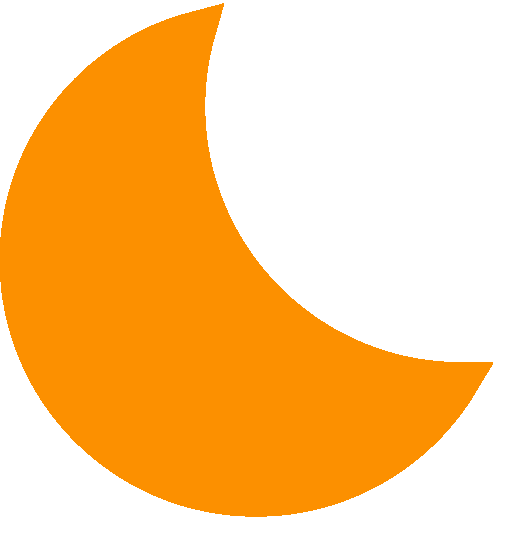
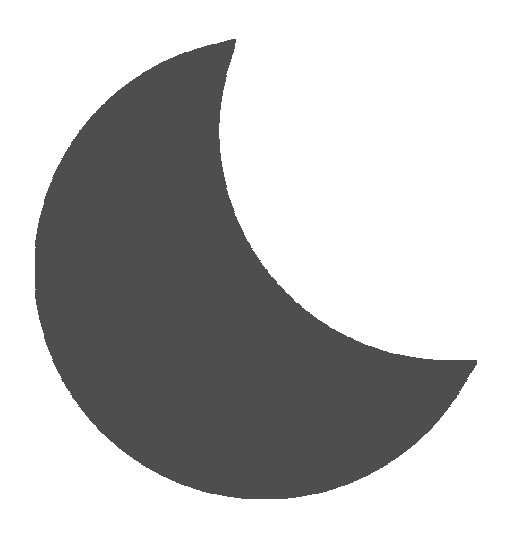
new colors

diff --git a/app/components/Search.jsx b/app/components/Search.jsx
@@ -64,7 +64,7 @@ const Search = ({ setCurrentRadio }) => {
             <div className="flex w-full justify-center items-center flex-wrap gap-4 md:gap-8">
                 <input
                     placeholder={t('search_for')}
-                    className="p-4 rounded-full md:w-2/3 bg-secondary dark:bg-dark-selected placeholder:dark:text-dark-secondary placeholder:text-dark-secondary"
+                    className="p-4 rounded-full md:w-2/3 bg-light dark:bg-dark-selected placeholder:dark:text-dark-secondary placeholder:text-dark-secondary"
                     type="text"
                     onKeyDown={(e) => e.key === 'Enter' && searchRadios()}
                     onChange={(e) => setRadioName(e.target.value)}
@@ -84,7 +84,7 @@ const Search = ({ setCurrentRadio }) => {
                     value={country}
                     defaultValue={'all'}
                     onChange={(e) => setCountry(e.target.value.toUpperCase())}
-                    className="rounded-2xl p-2 bg-secondary dark:bg-dark-selected cursor-pointer"
+                    className="rounded-2xl p-2 bg-light dark:bg-dark-selected cursor-pointer"
                 >
                     <option defaultValue={true} value="all">
                         {t('all')}
@@ -129,9 +129,9 @@ const Search = ({ setCurrentRadio }) => {
                 <motion.button
                     whileInView={{ opacity: 1 , transition: { delay: 0.1, duration: 0.5 }}}
                     initial={{ opacity: 0 }}
-                    whileHover={{ boxShadow: '0 5px 20px #4E4E4E80' }}
+                    whileHover={{ boxShadow: '0 0px 40px 5px #FFC132' }}
                     whileTap={{ scale: 0.95 }}
-                    className="rounded-full bg-black font-semibold text-white h-24 w-24 mx-auto italic"
+                    className="rounded-full bg-dark-secondary dark:bg-dark-selected font-bold text-white dark:text-darker h-24 w-24 mx-auto italic"
                     onClick={() => searchRadios(true)}
                 >
                     {'+ ' + t('more')}

diff --git a/app/components/Top.jsx b/app/components/Top.jsx
@@ -55,18 +55,18 @@ const Top = ({ setCurrentRadio }) => {
                 >
                     <motion.div
                         layout
-                        className="w-1/2 h-1 bg-text dark:bg-dark-text"
+                        className="w-1/2 h-1 bg-primary-darker dark:bg-primary"
                     ></motion.div>
                 </div>
                 <button
                     onClick={() => setMode('votes')}
-                    className={`${mode === 'clicks' ? 'text-dark-selected dark:text-dark-selected' : 'text-text dark:text-dark-text'} text-2xl p-2 w-1/2 h-full`}
+                    className={`${mode === 'clicks' ? 'text-dark-selected dark:text-dark-selected' : 'text-primary-darker dark:text-primary'} text-2xl p-2 w-1/2 h-full`}
                 >
                     {t('top')}
                 </button>
                 <button
                     onClick={() => setMode('clicks')}
-                    className={`${mode === 'votes' ? 'text-dark-selected dark:text-dark-selected' : 'text-text dark:text-dark-text'} text-2xl p-2 w-1/2 h-full`}
+                    className={`${mode === 'votes' ? 'text-dark-selected dark:text-dark-selected' : 'text-primary-darker dark:text-primary'} text-2xl p-2 w-1/2 h-full`}
                 >
                     {t('trending')}
                 </button>
@@ -105,7 +105,7 @@ const Top = ({ setCurrentRadio }) => {
                         initial={{ opacity: 0 }}
                         whileHover={{ boxShadow: '0 5px 20px #4E4E4E80' }}
                         whileTap={{ scale: 0.95 }}
-                        className="rounded-full bg-black font-semibold text-white h-24 w-24 mx-auto my-8"
+                        className="rounded-full bg-dark-secondary dark:bg-dark-selected font-bold text-white dark:text-darker h-24 w-24 mx-auto my-8"
                         onClick={() => getTopList(true)}
                     >
                         {'+ ' + t('more')}

diff --git a/app/[locale]/page.js b/app/[locale]/page.js
@@ -9,6 +9,10 @@ import Header from '../components/Header';
 import { AnimatePresence, motion } from 'framer-motion';
 import BigLayout from "../components/BigLayout";
 import { useTranslations } from "next-intl";
+import { useTheme } from "next-themes";
+import Image from "next/image";
+import BackgroundImage from "../../public/background.jpg"
+import BackgroundDarkImage from "../../public/background_dark.jpg"
 
 export default function Home() {
     const t = useTranslations('MainPage');
@@ -19,6 +23,10 @@ export default function Home() {
     const [favorites, setFavorites] = useState([]);
 
     const [pageDirection, setPageDirection] = useState();
+
+    const { theme } = useTheme();
+
+    console.log(theme);
 
     useEffect(() => {
         loadFavorites();
@@ -42,7 +50,8 @@ export default function Home() {
     };
 
     return (
-        <main className="flex flex-col items-center overflow-hidden">
+        <main className={`${theme === 'dark' ? 'bg-[url("/background_dark.jpg")]' : 'bg-[url("/background.jpg")]'} min-h-screen h-full bg-opacity-35 bg-cover flex flex-col items-center overflow-hidden`}>
+            {/* <Image priority src={theme === 'dark' ? BackgroundDarkImage : BackgroundImage } alt="background" className="object-cover opacity-35 h-screen fixed bg-repeat object-top -z-30" /> */}
             <Header />
             <div className="w-full md:hidden">
                 <Menu page={page} setPage={setPage} />

diff --git a/app/components/ThemeChanger.jsx b/app/components/ThemeChanger.jsx
@@ -1,22 +1,29 @@
-import { useTheme } from "next-themes"
-import React from 'react';
-import lightIcon from '../../public/sun.png'
-import darkIcon from '../../public/moon.png'
-import Image from "next/image";
+import { useTheme } from 'next-themes';
+import React, { useEffect, useState } from 'react';
+import lightIcon from '../../public/sun.png';
+import darkIcon from '../../public/moon.png';
+import Image from 'next/image';
+import { motion } from 'framer-motion';
 
 const ThemeChanger = () => {
     const { theme, setTheme } = useTheme();
 
-    console.log(theme);
-
     return (
         <button
-            onClick={() => setTheme(theme === 'dark' ? 'light' : 'dark')}
-            className=""
+            onClick={() =>
+                setTheme(theme === 'dark' ? 'light' : 'dark')
+            }
         >
-            <Image src={theme === 'light' ? darkIcon : lightIcon} alt="light theme" width={30} height={30} />
+            <motion.div whileTap={{ scale: 0 }}>
+                <Image
+                    src={theme === 'light' ? darkIcon : lightIcon}
+                    alt="light theme"
+                    width={30}
+                    height={30}
+                />
+            </motion.div>
         </button>
-    )
-}
+    );
+};
 
-export default ThemeChanger
+export default ThemeChanger;

diff --git a/app/components/Header.jsx b/app/components/Header.jsx
@@ -1,14 +1,17 @@
 import Image from "next/image"
 import React from 'react'
-import logo from '../../public/radio.png';
+import logo from '../../public/radio2.png';
 import ThemeChanger from "./ThemeChanger";
+import { Merienda } from "next/font/google"
+
+const merienda = Merienda({ subsets: ['latin'], weight: '800'});
 
 const Header = () => {
     return (
-        <header className="flex italic gap-4 items-center w-full px-4 py-2 text-2xl md:text-4xl font-bold bg-gradient-to-t dark:from-dark from-light dark:to-text to-lighter md:justify-center text-primary-darker dark:text-primary">
+        <header className={`${merienda.className} flex italic gap-4 items-center w-full px-4 py-2 text-2xl md:text-4xl font-bold bg-gradient-to-b from-primary to-primary-darker text-primary-darker dark:text-primary`}>
             <div className="flex gap-4 justify-center items-center w-full">
-                <Image className="h-8 w-8 md:h-16 md:w-16" src={logo} alt="radio world" width={50} height={50} />
-                <p>RADIO WORLD</p>
+                <Image className="h-12 w-12 md:h-16 md:w-16 p-1" src={logo} alt="radio world" width={50} height={50} />
+                <p className="text-dark-secondary">RADIO WORLD</p>
             </div>
             <ThemeChanger/>
         </header>

diff --git a/app/components/Presentation.jsx b/app/components/Presentation.jsx
@@ -1,8 +1,8 @@
 'use client';
-import { motion } from 'framer-motion';
+import { AnimatePresence, motion } from 'framer-motion';
 import Image from "next/image";
 import React from 'react';
-import radioIcon from '../../public/radio.png';
+import radioIcon from '../../public/radio2.png';
 
 const Presentation = () => {
     return (
@@ -11,7 +11,14 @@ const Presentation = () => {
             transition={{ delay: 2, duration: 0.5 }}
             // onAnimationEnd={{ display: 'none'}}
             className="hidden md:flex h-screen bg-gradient-to-br from-lighter to-light dark:from-darker dark:to-dark z-40 w-full fixed text-5xl justify-center items-center">
-                <Image className="animate-pulse" src={radioIcon} alt="logo" width={180} height={180}/>
+                    <motion.div
+                        animate={{ scale: [0, 1, 1, 0] }}
+                        transition={{ duration: 2,  times:[0, 0.1, 0.9, 1]}}
+                        initial={{ scale: 0 }}
+                        className="w-72 h-72 bg-primary rounded-full flex justify-center items-center shadow-xl"
+                    >
+                        <Image className="" src={radioIcon} alt="logo" width={180} height={180}/>
+                    </motion.div>
         </motion.div>
     );
 };

diff --git a/app/components/Favorites.jsx b/app/components/Favorites.jsx
@@ -1,7 +1,7 @@
 import Image from 'next/image';
 import React, { useEffect, useState } from 'react';
 import starLightIcon from '../../public/star_light.png';
-import starIcon from '../../public/star.png';
+import starDarkIcon from '../../public/star_dark.png';
 import removeIcon from '../../public/star_cross.png';
 import { useTranslations } from "next-intl";
 import { useTheme } from "next-themes";
@@ -21,11 +21,11 @@ const Favorites = ({ favorites, setFavorites, setCurrentRadio, currentRadio }) =
         <section className={`flex flex-col w-full gap-8 p-2 md:p-4 ${currentRadio ? 'pb-64' : 'pb-32'}`}>
             <div className="flex items-start">
                 <Image
-                    className="-mr-2 opacity-30 -rotate-12"
-                    src={theme === 'dark' ? starLightIcon : starIcon}
+                    className="-mr-2 -rotate-12"
+                    src={theme === 'dark' ? starDarkIcon : starLightIcon}
                     alt="favorites"
-                    width={75}
-                    height={75}
+                    width={70}
+                    height={70}
                 />
                 <h3 className="m-4 z-20 text-4xl font-semibold text-primary-darker dark:text-primary">
                 {t('favorites')}

diff --git a/app/components/RadioPlayer.jsx b/app/components/RadioPlayer.jsx
@@ -185,7 +185,7 @@ const RadioPlayer = ({ radio, favorites, setFavorites, setCurrentRadio }) => {
             >
                 <div className="flex flex-col md:flex-row justify-center m-2 xl:gap-8 items-center">
                     <motion.img
-                        animate={collapsed ? { width: 60 } : { width: 150 }}
+                        animate={collapsed ? { width: 75 } : { width: 150 }}
                         src={radio.favicon ? radio.favicon : '/on_air.png'}
                         alt="radio"
                         width={200}
@@ -207,7 +207,7 @@ const RadioPlayer = ({ radio, favorites, setFavorites, setCurrentRadio }) => {
                                         .map((tag, index) => (
                                             <li
                                                 key={index}
-                                                className="text-xs md:text-xl px-2 w-auto rounded bg-dark-secondary bg-opacity-30"
+                                                className="text-xs md:text-xl px-2 w-auto rounded bg-dark bg-opacity-30"
                                             >
                                                 {tag}
                                             </li>

diff --git a/app/[locale]/layout.js b/app/[locale]/layout.js
@@ -7,6 +7,9 @@ import {
 import { locales } from '@/config';
 import Presentation from '../components/Presentation';
 import { ThemeProvider } from "next-themes";
+import { Open_Sans } from "next/font/google";
+
+const openSans = Open_Sans({ subsets: ['latin'] })
 
 export function generateStaticParams() {
     return locales.map((locale) => ({ locale }));
@@ -26,7 +29,7 @@ export default async function LocaleLayout({ children, params: { locale } }) {
 
     return (
         <html lang={locale} suppressHydrationWarning>
-            <body className="bg-gradient-to-b from-lighter to-light dark:from-darker dark:to-dark h-full min-h-screen">
+            <body className={`${openSans.className} h-full min-h-screen transition-colors duration-1000`}>
                 <Presentation />
                 <NextIntlClientProvider messages={messages}>
                     <ThemeProvider attribute="class">{children}</ThemeProvider>

diff --git a/app/components/BigLayout.jsx b/app/components/BigLayout.jsx
@@ -31,13 +31,13 @@ const BigLayout = ({
                     <div className="flex w-64 ml-auto">
                         <button
                             onClick={() => page === 'top' && setPage('search')}
-                            className={`${page === 'top' && 'opacity-75'} w-1/2 text-center`}
+                            className={`${page === 'top' && 'text-selected'} w-1/2 text-center`}
                         >
                             {t('search')}
                         </button>
                         <button
                             onClick={() => page === 'search' && setPage('top')}
-                            className={`${page === 'search' && 'opacity-75'} w-1/2 text-center`}
+                            className={`${page === 'search' && 'text-selected'} w-1/2 text-center`}
                         >
                             {t('top')}
                         </button>

diff --git a/app/components/Menu.jsx b/app/components/Menu.jsx
@@ -13,11 +13,11 @@ const Menu = ({ page, setPage }) => {
     };
 
     return (
-        <nav className="md:hidden fixed z-40 w-full bottom-0 left-0 h-12 flex justify-around items-center bg-gradient-to-t dark:from-dark-selected dark:to-dark-secondary from-secondary to-selected">
+        <nav className="md:hidden fixed z-40 w-full bottom-0 left-0 h-12 flex justify-around items-center bg-gradient-to-t from-primary to-primary-darker transition-colors duration-300">
             <div className={`${selectorPosition[page]} pointer-events-none absolute w-full h-full flex`}>
                 <motion.div
                     layout
-                    className="w-1/3 h-full rounded-3xl bg-selected dark:bg-dark-selected z-30"
+                    className="w-1/3 h-full rounded-3xl bg-white dark:bg-dark-secondary z-30"
                 ></motion.div>
             </div>
             <button

diff --git a/app/globals.css b/app/globals.css
@@ -24,6 +24,6 @@
 
 @layer components {
   .element {
-    @apply bg-gradient-to-br font-semibold from-light dark:from-dark-secondary dark:to-dark to-secondary hover:from-white hover:dark:from-dark-selected hover:to-light hover:dark:to-dark-secondary hover:dark:text-black transition-colors dark:text-dark-text text-text;
+    @apply bg-gradient-to-br font-semibold from-secondary dark:from-dark-secondary dark:to-dark to-light hover:from-primary hover:dark:from-primary hover:to-primary-darker hover:dark:to-primary-darker hover:dark:text-black transition-colors dark:text-dark-text text-text;
   }
 }
